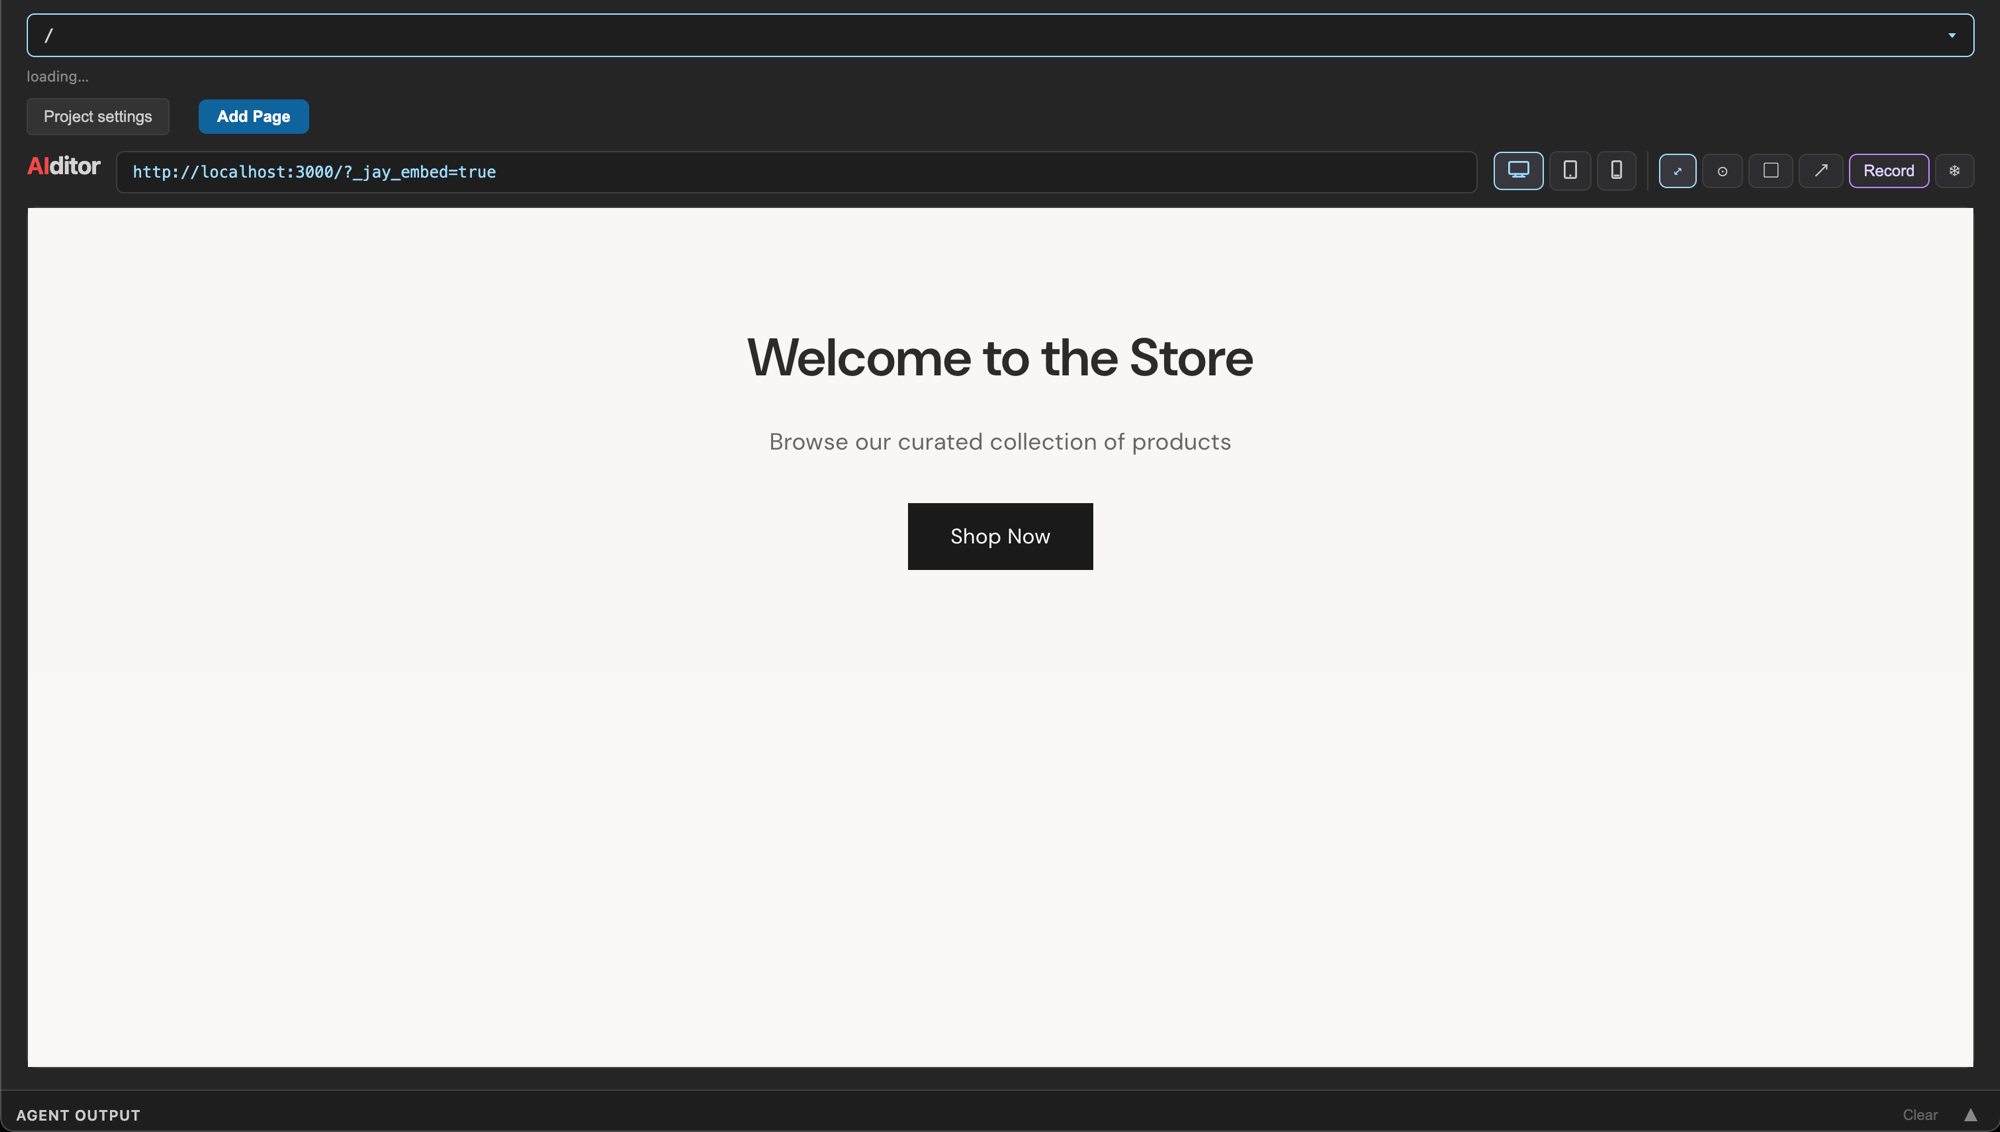
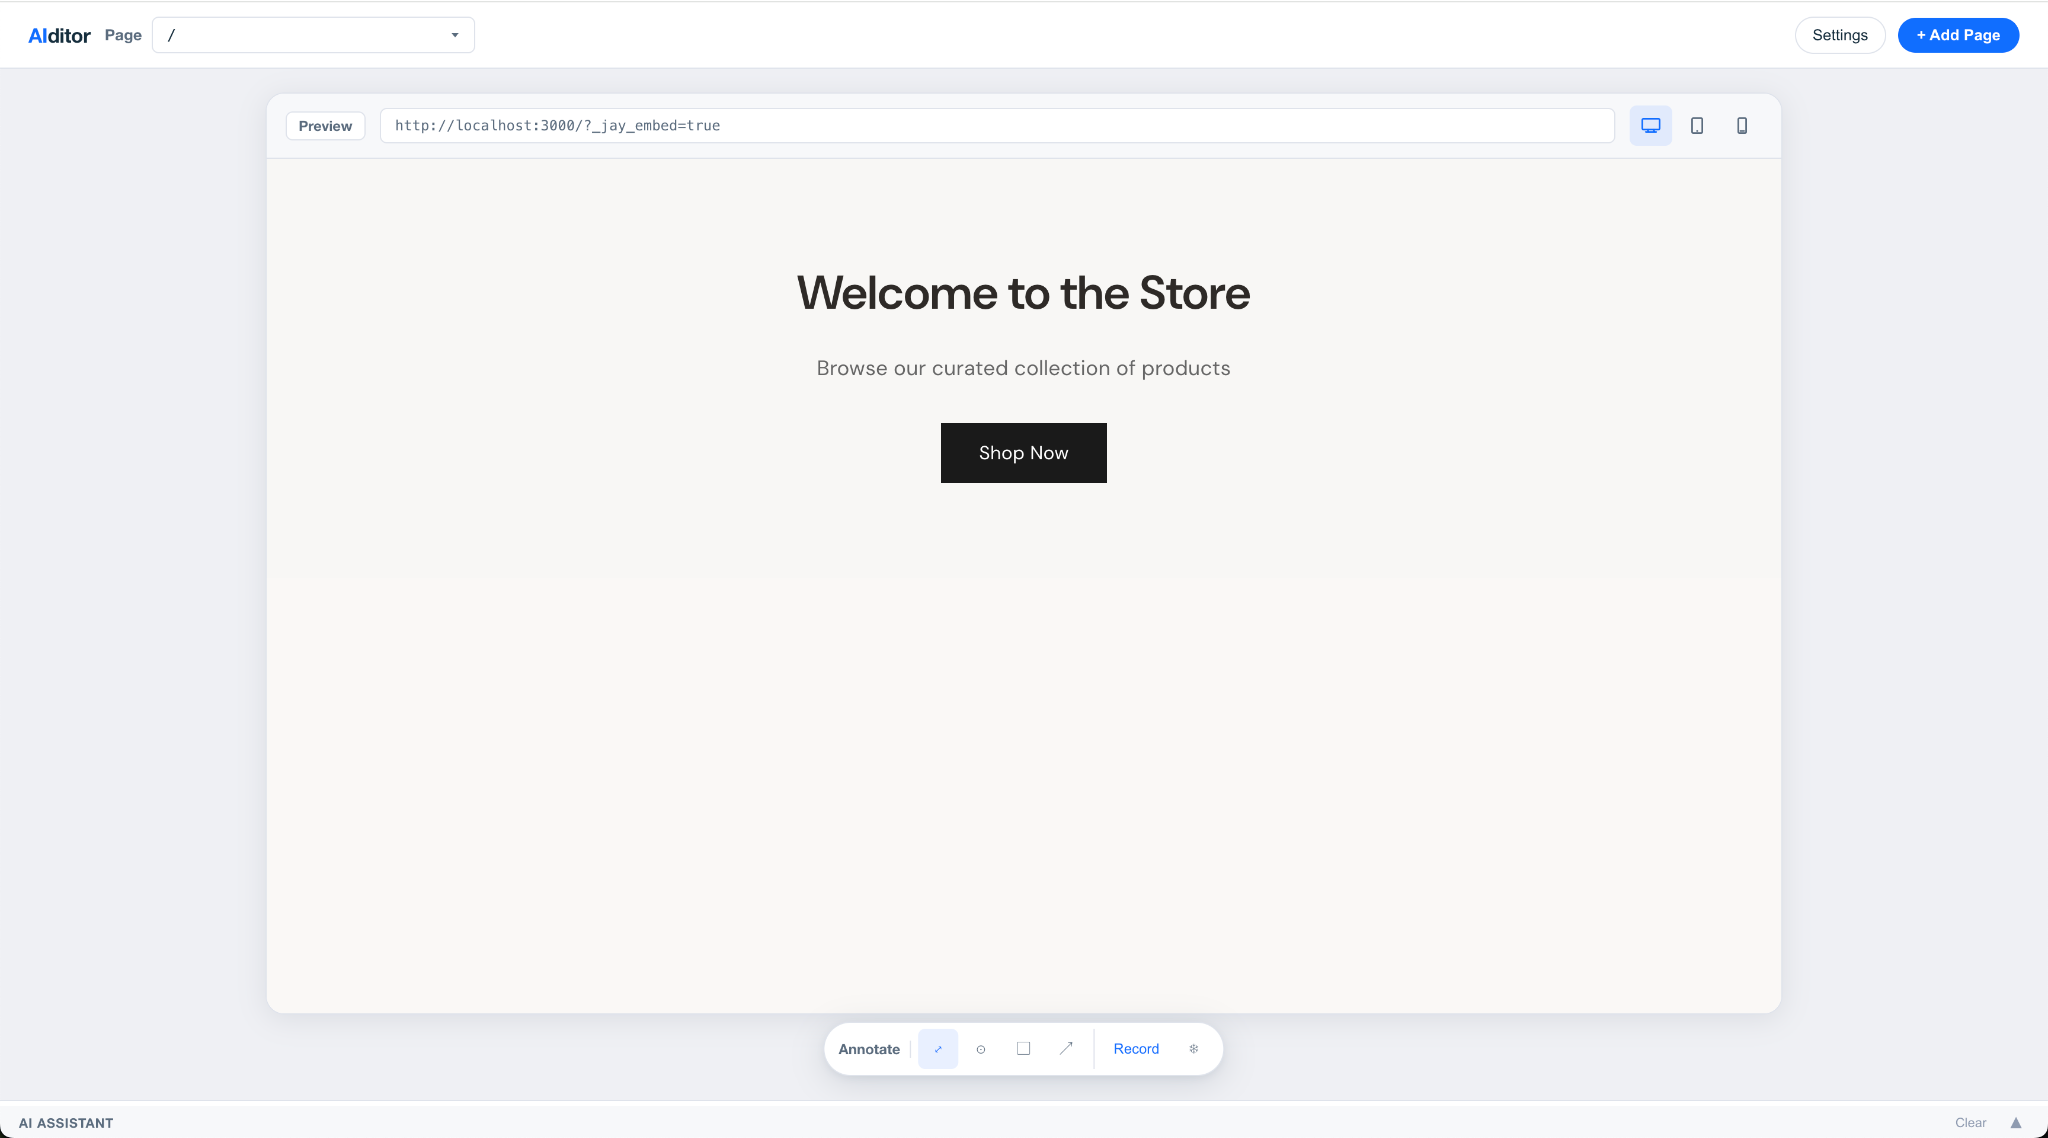
update readme with the feedback

Changed region(s): [[0.0, 0.0, 1.0, 1.0], [0.372, 0.371, 0.62, 0.5256], [0.372, 0.2473, 0.62, 0.3401]]

diff --git a/README.md b/README.md
@@ -13,9 +13,11 @@ A minimal e-commerce storefront built with [Jay Framework](https://github.com/ja
 ## Prerequisites
 
 - Node.js >= 20
-- A Wix site with Wix Stores installed
+- A Wix account (a new site is created automatically in step 1)
 
 ## 1. Setup
+
+Run these commands in order:
 
 ```bash
 npm install
@@ -25,25 +27,63 @@ npm run setup
 
 Here's what each command does:
 
-1. **`npm create @wix/new@latest init`** — Creates a new headless Wix site, generating a `wix.config.json` with:
+1. **`npm install`** — Installs project dependencies.
+
+2. **`npm create @wix/new@latest init`** — Creates a new headless Wix site and generates `wix.config.json` with:
    - `siteId` — the Wix site identifier (also known as metasite ID in Wix)
    - `appId` — a client ID for headless API access
 
    This command is only required for Wix-hosted sites.
 
-2. **`npm run setup`** — Creates `config/.wix.yaml`. If a valid `wix.config.json` exists, it reads the `siteId` and `clientId` from it.
+3. **`npm run setup`** — Creates `config/.wix.yaml` and validates plugin configuration. On the **first run**, this will report errors — **that is expected**. It creates a config template that you fill in during the steps below.
 
-   > **Note:** `appId` (in `wix.config.json`) and `clientId` (in `config/.wix.yaml`) are the same value. Both can also be generated manually from **Wix Dashboard → Site Settings → Headless Settings → Headless Client**.
+   ![First npm run setup output — errors are expected](docs/setup-first-run.png)
 
-3. **Generate an API key** — Go to **Wix Dashboard → Account Settings → API Keys**, create a new key, and paste it into `config/.wix.yaml` under `apiKeyStrategy.apiKey`.
+### Configure Wix credentials
 
-4. **Install Wix Stores** — In the **Wix Business Manager → Apps → Manage Apps → App Market**, find **Wix Stores** and add it to the site.
+Complete these steps, then run `npm run setup` again at the end to validate everything.
 
-5. **Create the `jay-backend-files` collection** — In the **Wix Business Manager** of the same site (or the site referenced in `config/.wix.yaml`, if those are different), go to **CMS** and create a new collection named **`jay-backend-files`**. No specific schema is required. This collection stores pre-compiled page data for Wix BaaS deployment.
+> **Note:** `appId` (in `wix.config.json`) and `clientId` (in `config/.wix.yaml`) are the same value. Both can also be generated manually from **Wix Dashboard → Site Settings → Headless Settings → Headless Client**.
 
-6. **Run `npm run setup` again** to validate that all credentials are configured correctly.
+#### a. Find your new Wix site
 
-When everything is set up, the output should look like:
+`npm create @wix/new@latest init` creates a new site on your Wix account. Open [manage.wix.com/studio/sites](https://manage.wix.com/studio/sites) to find it. All steps below apply to **this site**.
+
+#### b. Generate an API key
+
+1. Go to [manage.wix.com/account/api-keys](https://manage.wix.com/account/api-keys).
+2. Create a new API key.
+3. Paste it into `config/.wix.yaml` under `apiKeyStrategy.apiKey`.
+
+   > **Note:** Wix may not let you scope an API key to a single headless site. If site-specific permissions are unavailable, grant access to **all sites** on your account.
+
+#### c. Install Wix Stores
+
+In your site's **Business Manager → Apps → Manage Apps → App Market**, find **Wix Stores** and add it.
+
+#### d. Create the `jay-backend-files` collection
+
+In the same site's **CMS**, create a new collection for Wix BaaS deployment. No specific schema is required — only the name matters.
+
+1. Choose **Content collection** (not Catalog collection):
+
+   ![Choose Content collection](docs/setup-collection-type.png)
+
+2. Choose **Start from scratch**:
+
+   ![Start from scratch](docs/setup-collection-start.png)
+
+3. Set the collection name to **`jay-backend-files`** (the collection ID will auto-fill to match). Keep **Multiple item collection** (the default), then click **Create**:
+
+   ![Name the collection jay-backend-files](docs/setup-collection-name.png)
+
+#### e. Validate setup
+
+```bash
+npm run setup
+```
+
+When everything is configured, the output should look like:
 
 ```
 📦 wix-server-client
@@ -128,31 +168,50 @@ npm run build:production
 npm run deploy
 ```
 
-This bundles a 2.5 MB `entry.mjs`, uploads page data to the `jay-backend-files` collection, and deploys the server + frontend to Wix BaaS + CDN.
+This bundles a ~2.5 MB `entry.mjs`, uploads page data to the `jay-backend-files` collection, and deploys the server + frontend to Wix BaaS + CDN.
+
+When deployment succeeds, the **live site URL** is printed at the end of the output:
+
+```
+[deploy] Done in 45.2s (bundle 12.1s + deploy 33.1s)
+[deploy] Version: 2 | Entry: 2.5 MB | Backend files: 42
+[deploy] URL: https://your-site-name.wix-site-host.com
+```
+
+Look for the line starting with `[deploy] URL:`. You can also find the site in [manage.wix.com/studio/sites](https://manage.wix.com/studio/sites).
 
 ## 6. Deploy to Self-Hosted Server
 
-```bash
-# Build
-npm run build:production
+### Option A — Built-in production server (recommended)
 
-# Serve with the built-in production server
+No manual file copying is needed. The server reads directly from the build output on disk:
+
+```bash
+npm run build:production
 npm run serve
 ```
 
-Or use the fetch handler directly in any Node.js server:
+The site is available at `http://localhost:3000` (or the next available port, printed in the terminal).
+
+To run on a remote server, copy the project to that machine (including the `build/` directory produced by `build:production`), install dependencies with `npm install`, and run `npm run serve`.
+
+### Option B — Integrate with your own HTTP server
+
+If you already have a Node.js server, use the fetch handler and point it at the build output directories. After `npm run build:production`, check the `build/` folder for the version directory (for example `build/v1/`):
 
 ```typescript
 import { createJayFetchHandler } from '@jay-framework/jay-fetch-handler';
 
 const handler = createJayFetchHandler({
-  backendDir: './build/v0.18.0/backend',
+  backendDir: './build/v1/backend',
   staticBaseUrl: '/',
-  frontendDir: './build/v0.18.0/frontend',
+  frontendDir: './build/v1/frontend',
 });
 
 // Use with any HTTP server framework
 ```
+
+Nothing needs to be copied into your server code — only reference the paths to `backend/` and `frontend/` inside the build output.
 
 ## Project Structure
 
@@ -171,5 +230,4 @@ src/
     └── atelier-theme.css                # Theme styles
 ```
 
-Pages use `.jay-html` templates with headless component bindings — no JavaScript needed for data fetching, SSR, or client hydration. The framework handles all of that through contracts and plugins.
-
+Pages use `.jay-html` templates with headless component bindings — no JavaScript needed for data fetching, server-side rendering, or client hydration. The framework handles all of that through contracts and plugins.